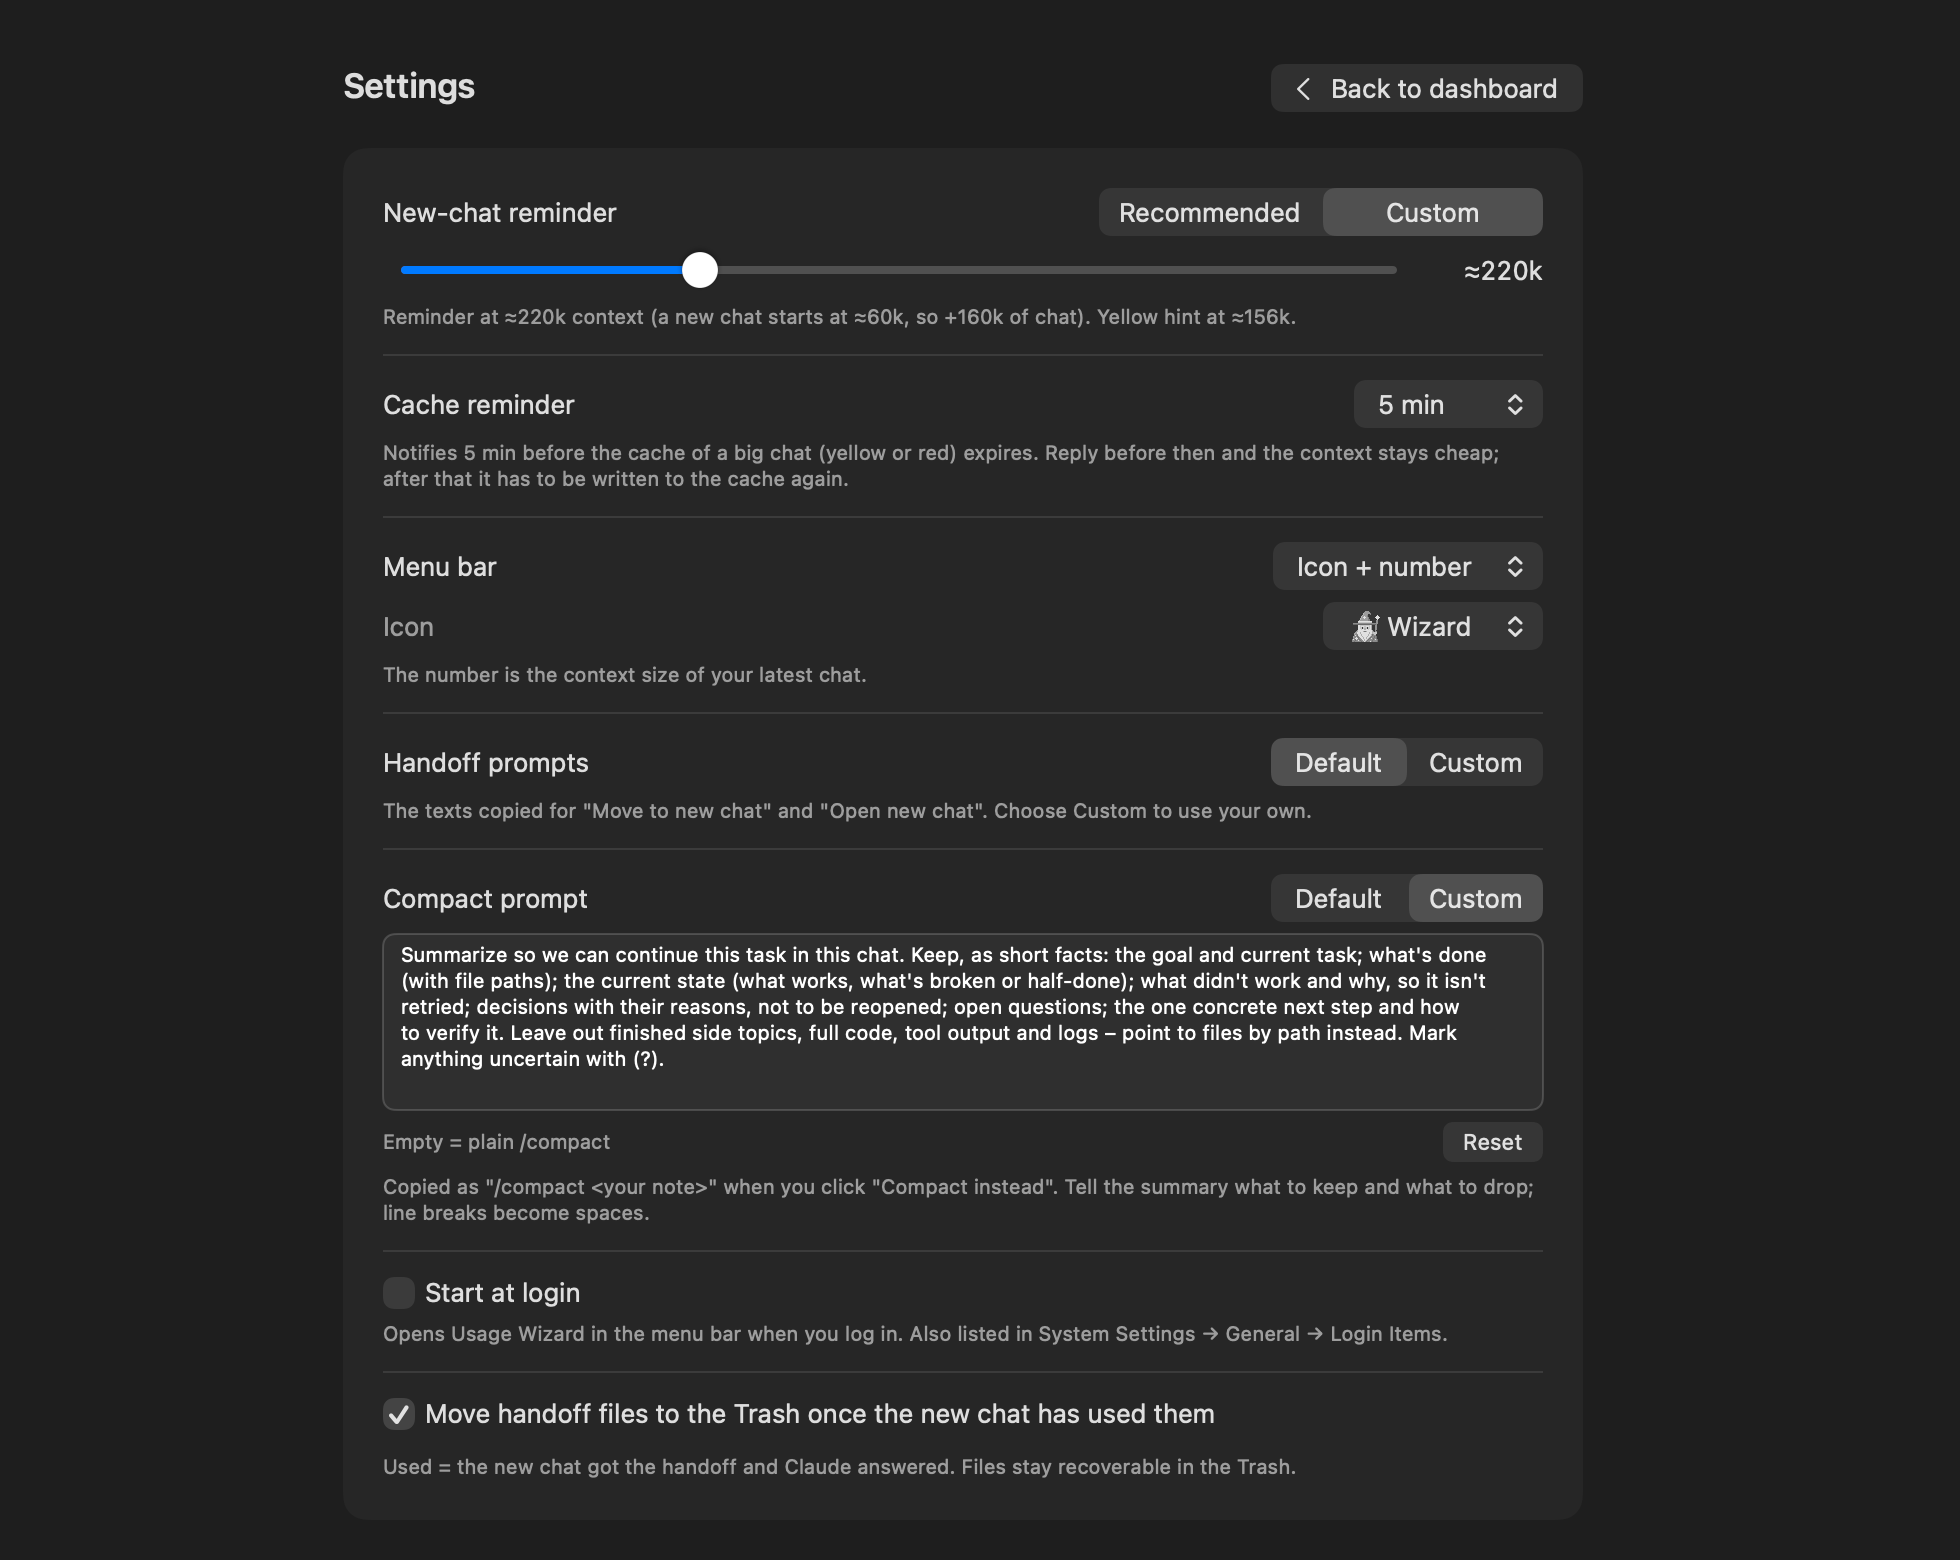
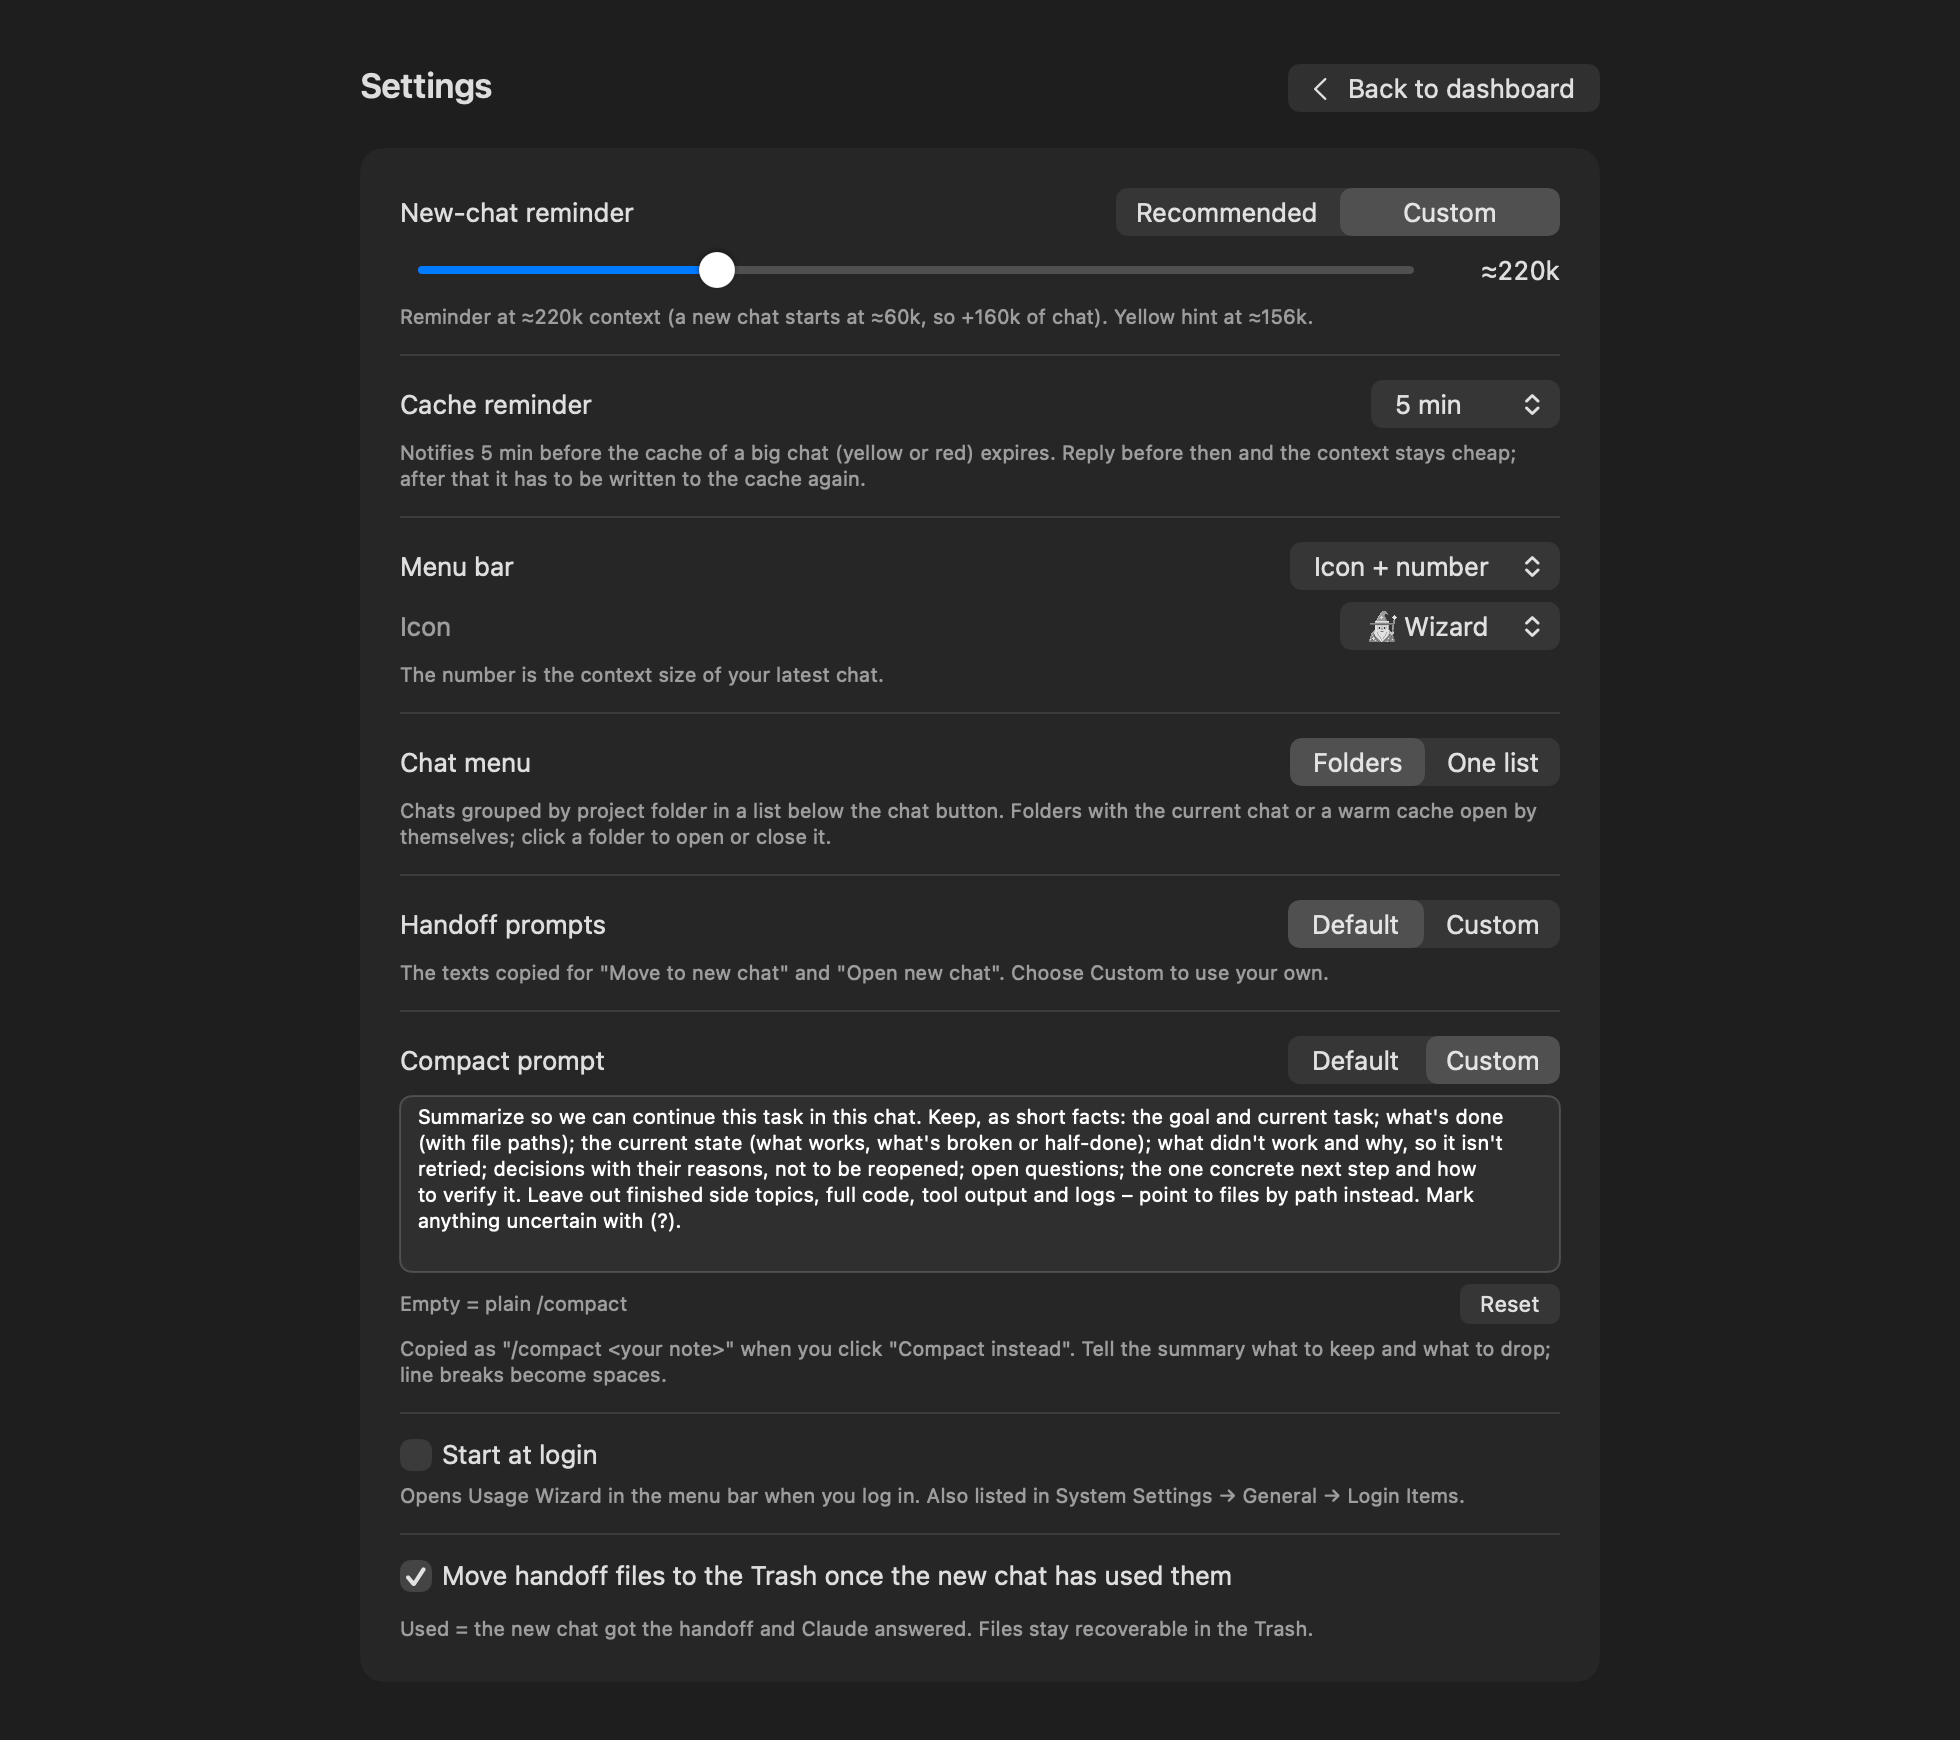
Screenshots: folder chat list, sessions grouped by folder, Chat menu setting

diff --git a/README.md b/README.md
@@ -9,9 +9,9 @@ Small local tools that show how you use Claude Code, based on the session logs i
 > "Claude" and "Claude Code" are trademarks of Anthropic.
 
 <p align="center">
-  <img src="docs/panel.png" alt="Menu bar panel: context size, cache countdown and suggestions" width="300">
+  <img src="docs/panel.png" alt="Menu bar panel: chat list by folder, context size, cache countdown and suggestions" width="300">
   &nbsp;
-  <img src="docs/dashboard.png" alt="Dashboard: context per response, tokens per day, where the cost went" width="500">
+  <img src="docs/dashboard.png" alt="Dashboard: context per response, tokens per day, where the cost went, sessions grouped by folder" width="500">
 </p>
 <p align="center"><sub>Menu bar panel and dashboard (example data)</sub></p>
 
